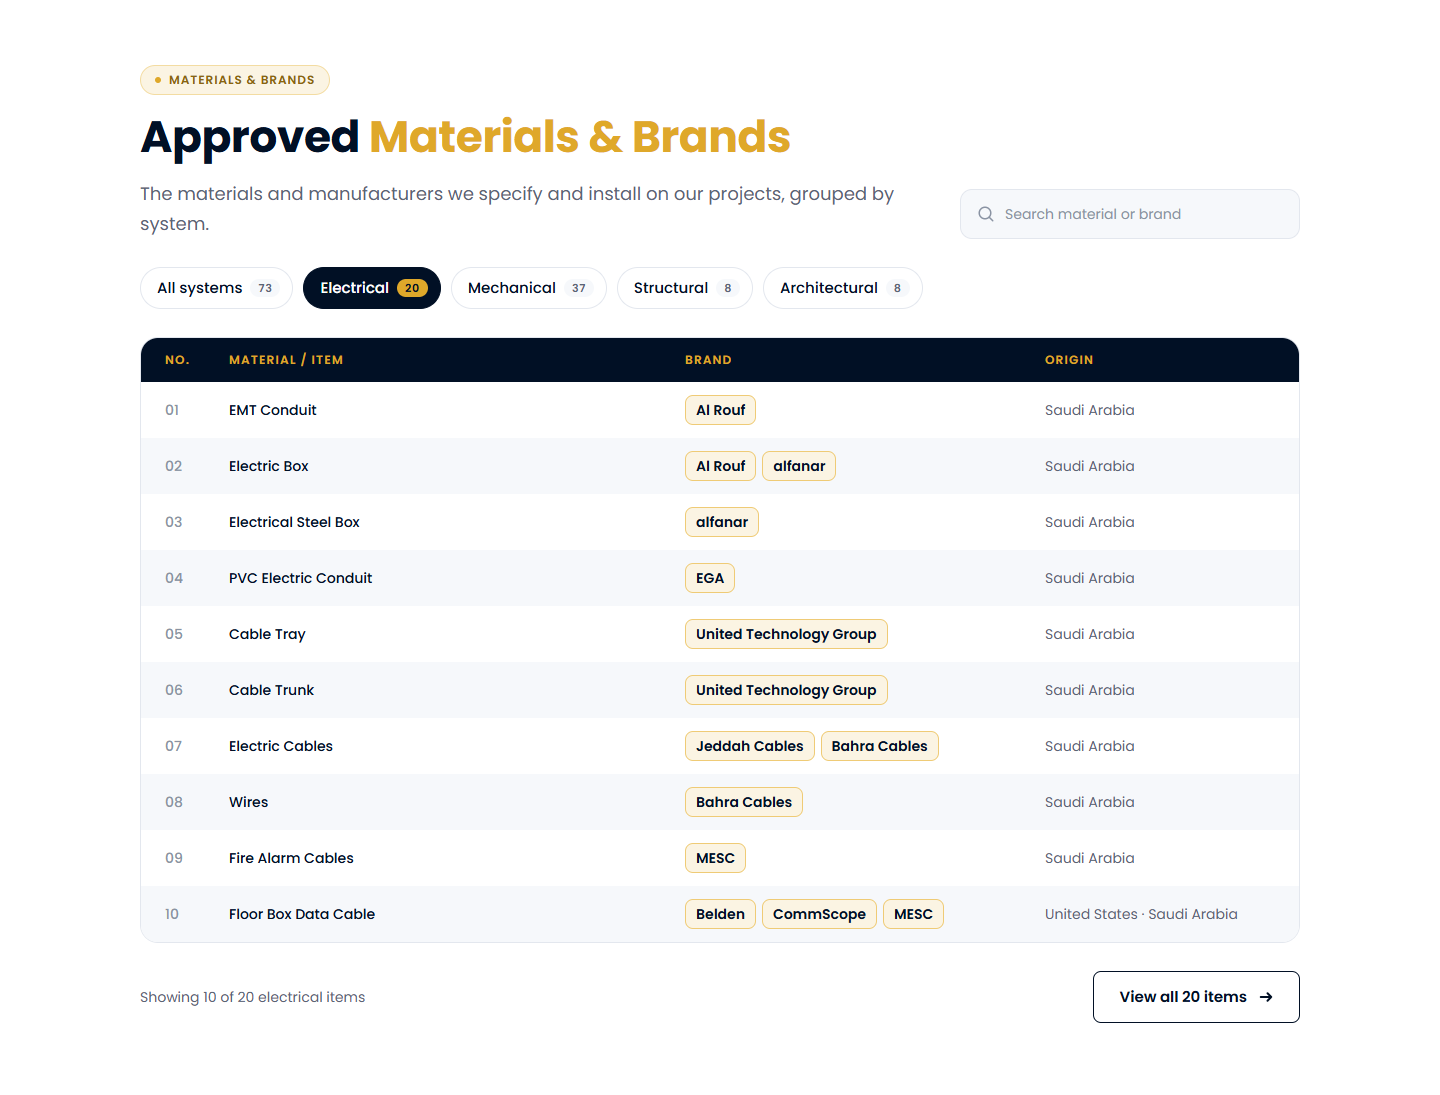
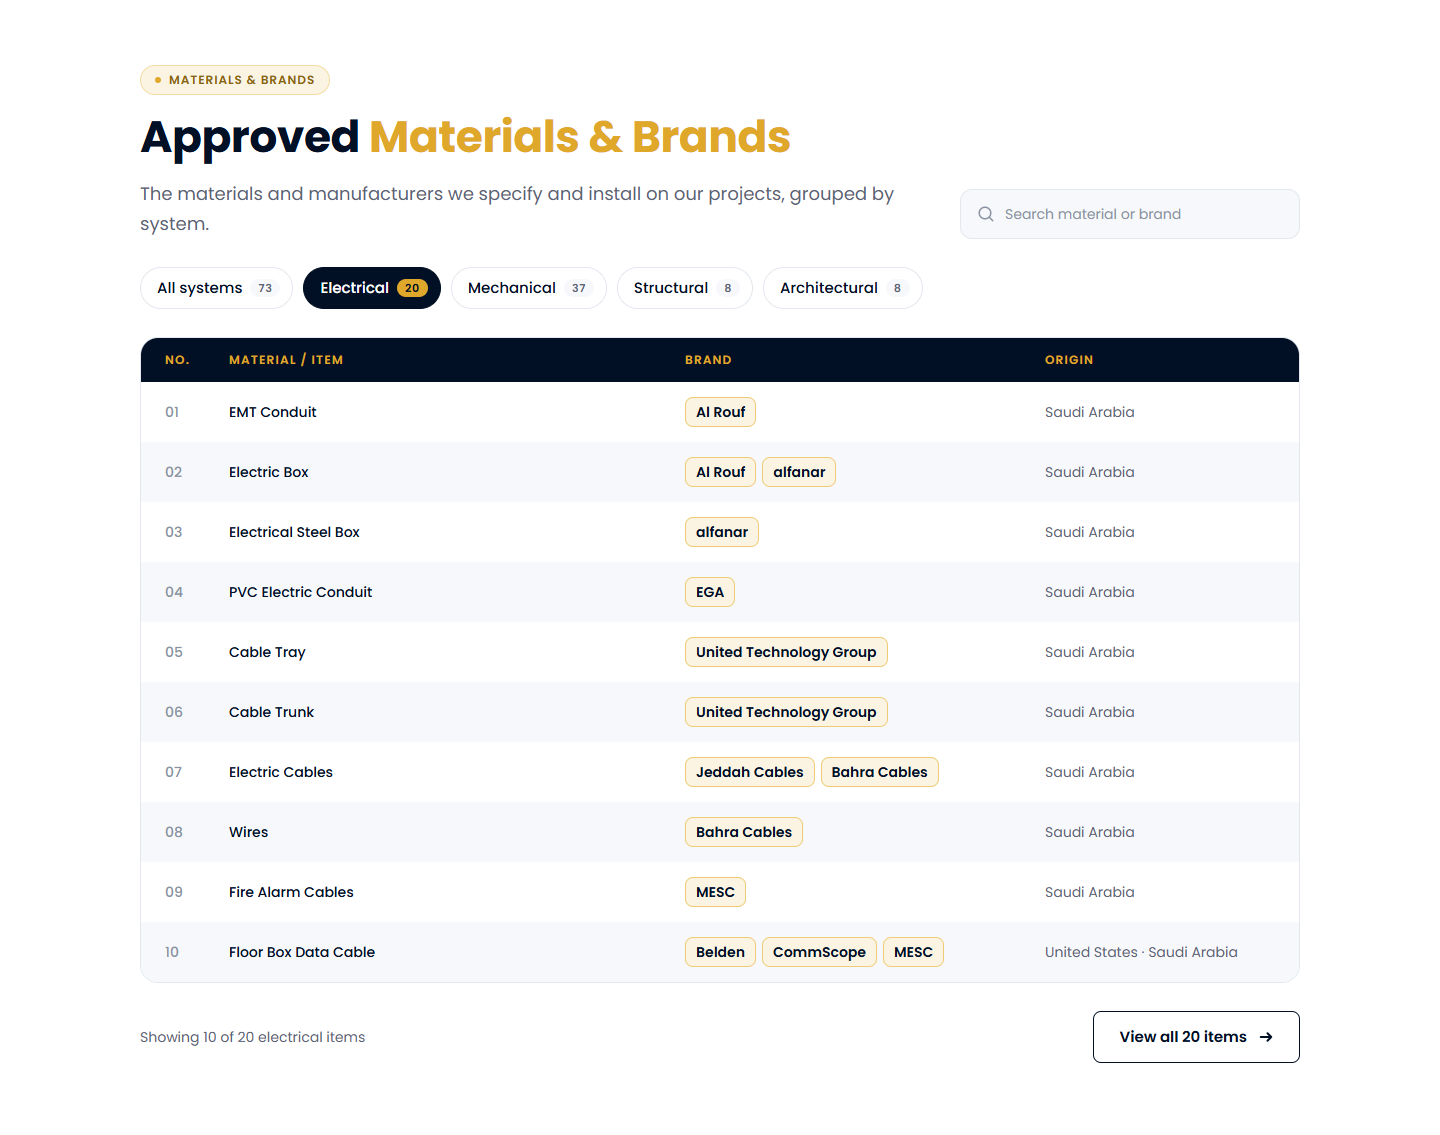
fix(services): resolve P3-T6 round 2 finding R-61

diff --git a/src/components/ApprovedMaterialsTable.module.css b/src/components/ApprovedMaterialsTable.module.css
@@ -177,7 +177,7 @@
 }
 
 .td {
-  padding-block: 13px;
+  padding-block: 15px;
   vertical-align: middle;
   text-align: start;
   box-sizing: border-box;
